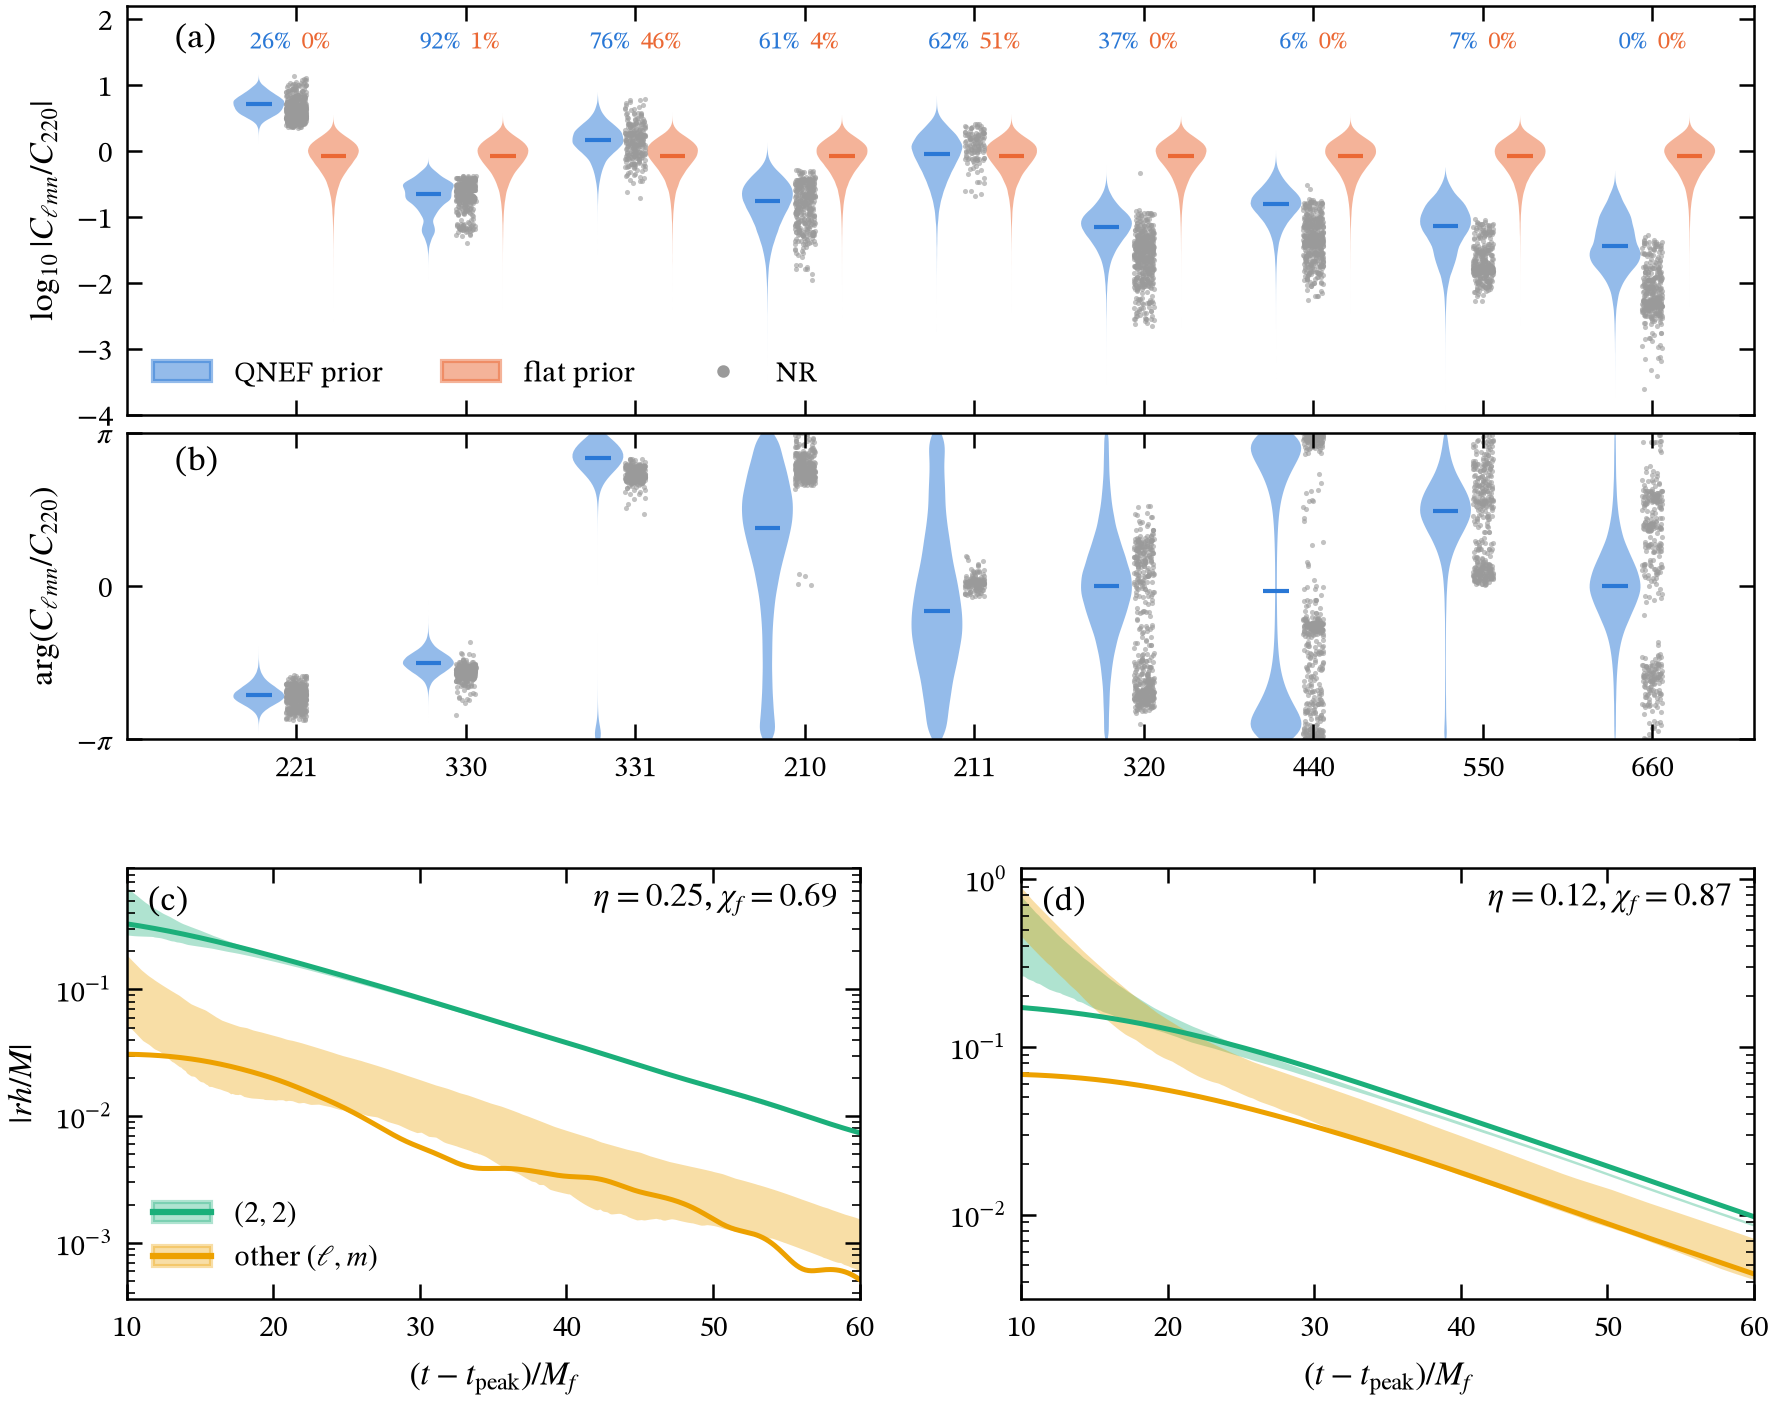
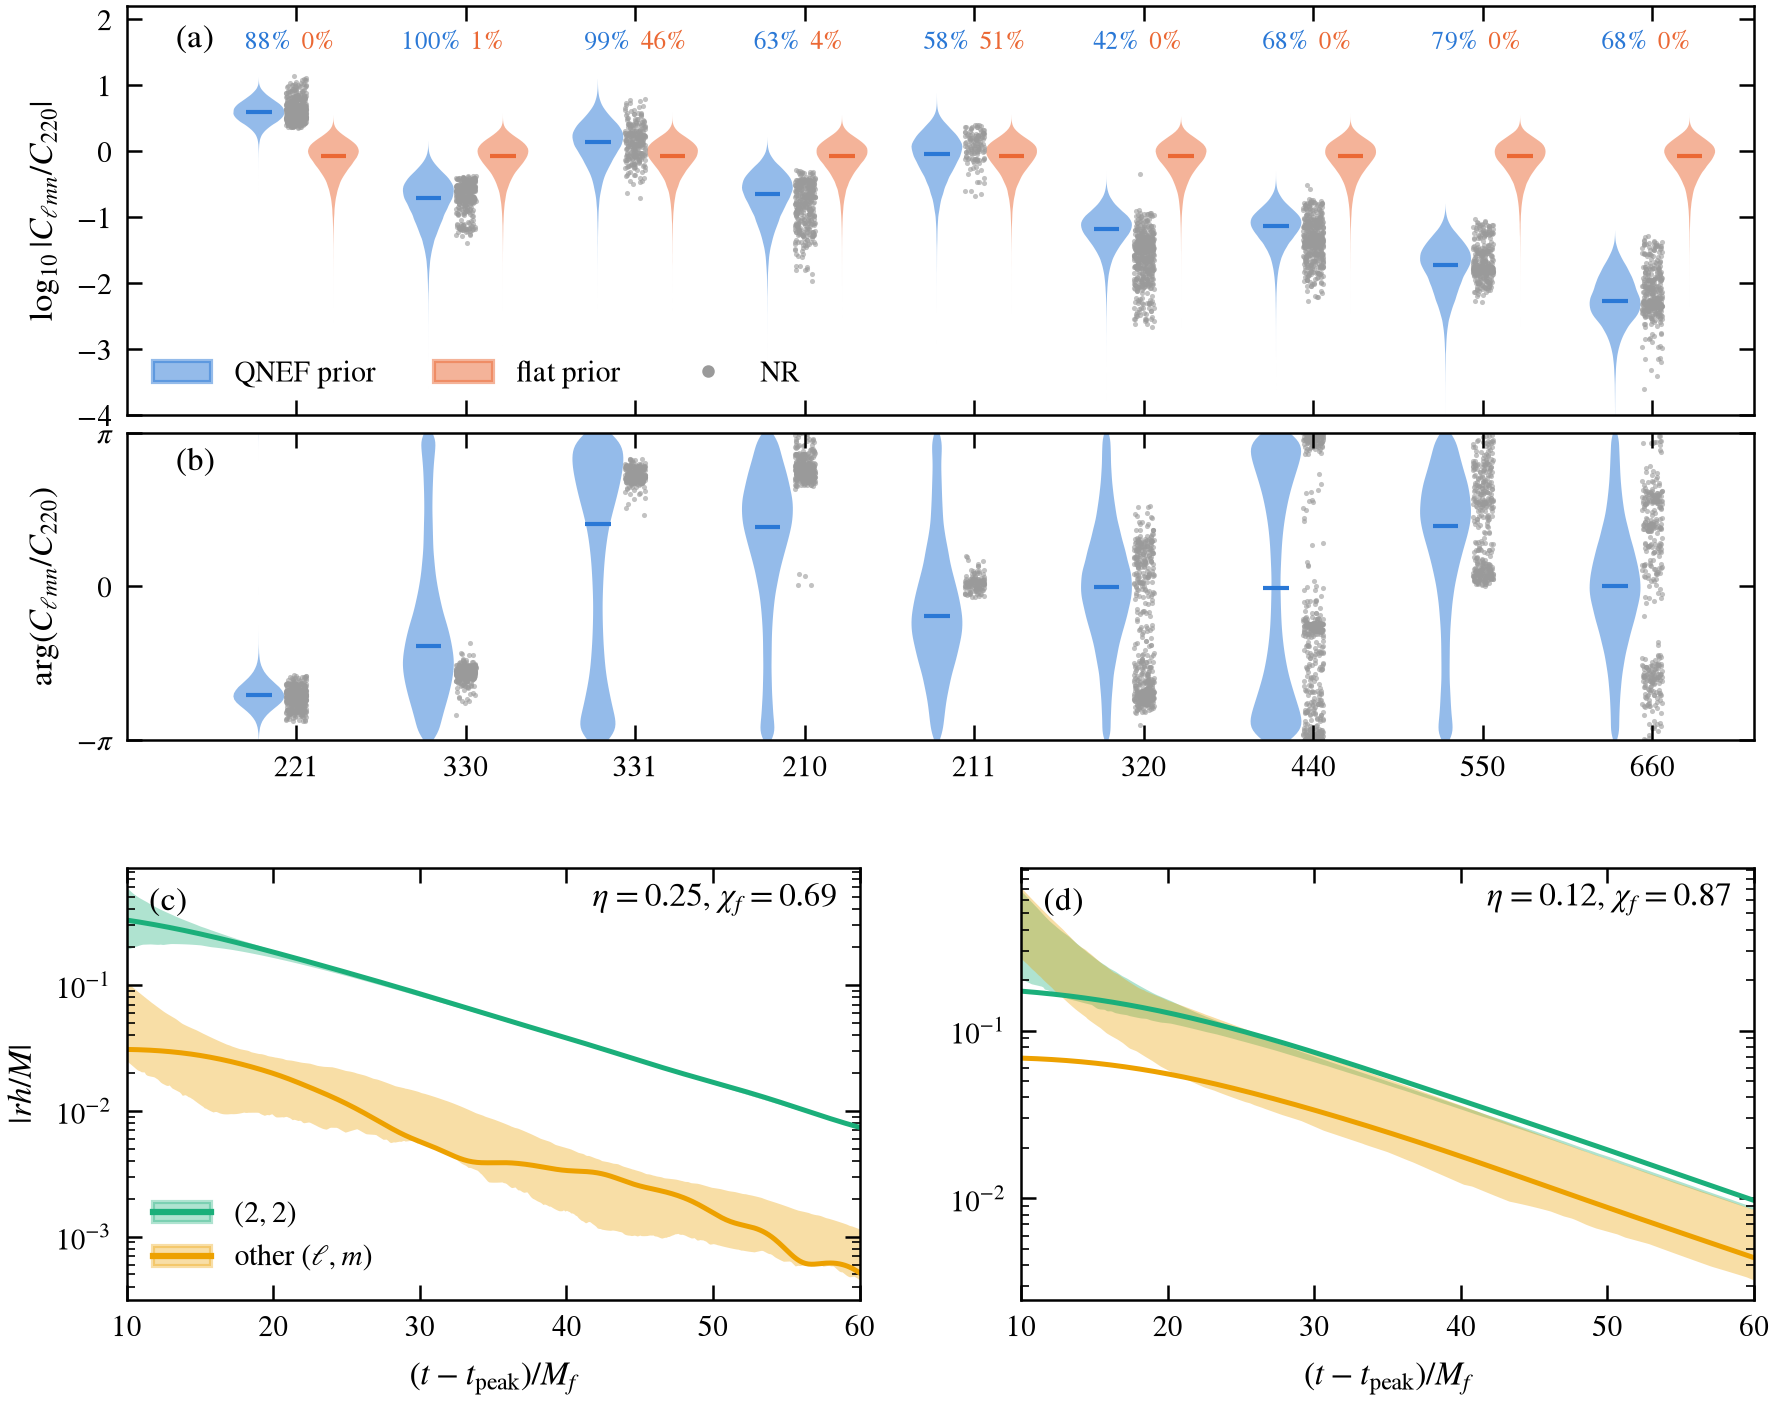
measuring-qnms: new amplitude prior in the code (v from peak frequency, 4 numbers); F1-F4, F6 remade; derivations §8, §10 updated

diff --git a/projects/measuring-qnms/results.md b/projects/measuring-qnms/results.md
@@ -6,12 +6,14 @@ $n_{\rm meas}$ for all 280 modes ($\ell \le 8$, $n \le 7$) from $t_0 = 10\,M_f$,
 
 | choice | O4 | CE 40 km | ET | LISA |
 |---|---|---|---|---|
-| as published (F3) | 5 (19) | 11 (36) | 14 (56) | 25 (74) |
+| as published (F3), earlier prior | 5 (19) | 11 (36) | 14 (56) | 25 (74) |
 | time step $0.05$ / $0.2\,M$ instead of $0.1\,M$ | 5 / 5 | 11 / 11 | 14 / 14 | 25 / 25 |
 | PSD continued as a power law above its table | 5 (19) | 11 (36) | 14 (56) | — |
 | 16× finer frequency grid for the ACF | 5 (19) | 11 (36) | 14 (56) | 25 (74) |
 | $10^6\times$ more noise below $f_{\rm low}$ | 5 (18) | 11 (36) | 14 (56) | 25 (74) |
 | band-limited at 4096 Hz | 5 (19) | 11 (36) | **12** (56) | — |
+
+With the current amplitude prior (2026-09-27) the reference counts are 5 (19), 9 (36), 12 (56) and 22 (74); the rows above used the earlier prior and will be rerun with it.
 
 **Takeaway.**
 
@@ -33,9 +35,9 @@ $n_{\rm meas}$ for all 280 modes ($\ell \le 8$, $n \le 7$) from $t_0 = 10\,M_f$,
 
 **Takeaway.**
 
-- **Without the GP, starting earlier keeps adding channels:** O4 goes from 6 to 12 and ET from 14 to 25 between $t_0 = 10$ and 0. The free overtones absorb the non-modal content near the merger and are counted as modes.
-- **With the GP, the count is flat for any start before about 10–15 M:** O4 4, CE 40 km 8, ET 10. Early data are down-weighted by the non-modal noise, so the answer no longer depends on the arbitrary choice of $t_0$, and we could start at the merger.
-- The late GP term (14% of each harmonic, decaying with it) changes the counts by at most 1. The effect comes from the early term plus restricting the signal to trusted modes.
+- **Without the GP, starting earlier keeps adding channels:** O4 goes from 5 to 10 and ET from 12 to 22 between $t_0 = 10$ and 0. The free overtones absorb the non-modal content near the merger and are counted as modes.
+- **With the GP, the count is flat for any start before about 10 M:** O4 4, CE 40 km 6, ET 8. Early data are down-weighted by the non-modal noise, so the answer no longer depends on the arbitrary choice of $t_0$, and we could start at the merger.
+- The late GP term (12% of each harmonic, decaying with it) changed the counts by at most 1 with the earlier calibration (14%); not rechecked. The effect comes from the early term plus restricting the signal to trusted modes.
 
 **Reproduce.** `python -m mqnm.experiments.start_time`.
 
@@ -62,8 +64,8 @@ $n_{\rm meas}$ for all 280 modes ($\ell \le 8$, $n \le 7$) from $t_0 = 10\,M_f$,
 
 **Takeaway.**
 
-- **Overtones saturate at $n_{\max} = 2$** for every SNR shown, under both priors. From $10\,M$ the higher overtones have decayed below reach.
-- **Harmonics saturate with the PN + QNEF prior** by $\ell_{\max} = 4$ at $\rho_{220} = 30$ and by 6 at 300. At 3000 the count still gains from $\ell = 8$; that gain is optimistic, because PN overpredicts the weak high-$\ell$ amplitudes (F1).
+- **Overtones saturate early.** With the PN + QNEF prior the count stops at $n_{\max} = 1$ for $\rho_{220} = 30$ and at 2 for 3000; at 300 one more channel appears at $n_{\max} = 4$. With the flat prior the count is flat from $n_{\max} = 1$. From $10\,M$ the higher overtones have decayed below reach.
+- **Harmonics saturate with the PN + QNEF prior:** from $\ell_{\max} = 2$ at $\rho_{220} = 30$ (4 channels) and by 6 at 3000 (16). At 300 the count reaches 8 at $\ell_{\max} = 4$ and gains one more at 8.
 - **With a flat prior the count grows linearly in $\ell_{\max}$ and never saturates.** Saturation comes from the physical amplitude hierarchy, not from the noise.
 
 **Reproduce.** `python -m mqnm.experiments.saturation`.
@@ -77,13 +79,13 @@ $n_{\rm meas}$ for all 280 modes ($\ell \le 8$, $n \le 7$) from $t_0 = 10\,M_f$,
 
 **Takeaway.**
 
-- **GW250114 at its distance, PN + QNEF prior:** O4 5, A+ 6, CE 20 km 10, CE 40 km 11, ET 14. That is, the 220 plus about 3 (O4) to 12 (ET) further real channels.
-- **Growth with SNR is roughly logarithmic:** about 3 channels at $\rho_{220} = 10$ and 25–32 at $10^4$. Above $\rho_{220} \approx 500$, networks that see both polarizations (ET, LISA) pull ahead.
-- **Third-generation detectors keep 5–6 channels out to $z \sim 1$–5**, because the redshifted mass moves the ringdown into their low-frequency band. O4 and A+ drop to the 220 alone.
-- **LISA ($10^6\,M_\odot$) keeps about 25 channels from $z \approx 1$ to 5.**
-- **At equal total SNR, the flat prior gives 3–4× more channels.** The PN + QNEF structure concentrates the signal into a few correlated directions, so the measurability count depends strongly on what we know about the amplitudes.
+- **GW250114 at its distance, PN + QNEF prior:** O4 5, A+ 6, CE 20 km 8, CE 40 km 9, ET 12. That is, the 220 plus 3 (O4) to 10 (ET) further real channels. With the earlier prior these were 5, 6, 10, 11, 14.
+- **Growth with SNR is roughly logarithmic:** 2 channels at $\rho_{220} = 10$, 6 at 100, 12–16 at 1000 and 22–28 at $10^4$. Above $\rho_{220} \approx 500$, networks that see both polarizations (ET, LISA) pull ahead.
+- **Third-generation detectors keep 4–6 channels out to $z \sim 5$**, because the redshifted mass moves the ringdown into their low-frequency band. O4 and A+ drop to the 220 alone (2) by $z \approx 1$.
+- **LISA ($10^6\,M_\odot$) keeps about 20–22 channels from $z \approx 1$ to 10**, and 14 at $z = 20$.
+- **At equal total SNR, the flat prior gives 3–5× more channels** (O4 19, CE 40 km 36, ET 56, LISA 74 at the source). The PN + QNEF structure concentrates the signal into a few correlated directions, so the measurability count depends strongly on what we know about the amplitudes.
 
-**Caveats.** An overhead source with co-located detectors is an idealisation. The PN + QNEF prior is optimistic for the weak high-$\ell$ modes (F1). The count is of *channels* (combinations of amplitudes), not of named modes.
+**Caveats.** An overhead source with co-located detectors is an idealisation. The PN + QNEF prior under-covers (3,2) and (4,3) and over-covers (3,3) (F1). The count is of *channels* (combinations of amplitudes), not of named modes.
 
 **Reproduce.** `python -m mqnm.experiments.measurability`.
 
@@ -108,13 +110,17 @@ $n_{\rm meas}$ for all 280 modes ($\ell \le 8$, $n \le 7$) from $t_0 = 10\,M_f$,
 
 <figure>
 <a href="figs/prior_vs_nr.png"><img src="figs/prior_vs_nr.png" alt="(a, b) prior-predictive amplitude ratios per mode versus NR, modulus and phase; (c, d) NR strain versus prior bands with every mode for two SXS runs, from 10 M"></a>
-<figcaption>(a, b) For each SXS run, both priors are conditioned on that run's own 220 and predict $C_j/C_{220}$ at the merger. Violins pool the predictions and grey dots are NR (jaxqualin). The numbers give the fraction of runs inside their own central 68% (1σ) interval (blue: QNEF, orange: flat); a calibrated prior gives about 68%. (c, d) NR strain for SXS:BBH:0180 and SXS:BBH:1437 from $10\,M_f$ against 5–95% bands from draws of every mode ($\ell \le 8$, $n \le 7$). Green: $|h_{22}|$; yellow: rms of all other $m > 0$ harmonics.</figcaption>
+<figcaption>(a, b) For each SXS run, both priors are conditioned on that run's own 220 and predict $C_j/C_{220}$ at the merger. The PN × QNEF prior is 1PN at the run's own $v_{\rm peak}$ with four calibrated numbers ([derivations §8](#derivations)). Violins pool the predictions and grey dots are NR (jaxqualin). The numbers give the fraction of runs inside their own central 68% (1σ) interval (blue: QNEF, orange: flat); a calibrated prior gives about 68%. (c, d) NR strain for SXS:BBH:0180 and SXS:BBH:1437 from $10\,M_f$ against 5–95% bands from draws of every mode ($\ell \le 8$, $n \le 7$). Green: $|h_{22}|$; yellow: rms of all other $m > 0$ harmonics.</figcaption>
 </figure>
 
 **Takeaway.**
 
-- **Per mode, 1σ coverage (target 68%):** 330 92%, 331 76%, 210 61%, 211 62%, but the **221 only 26%**. NR's 221 sits consistently at about 0.8× the QNEF prediction with little scatter, and the rms error ($f = 0.22$) reaches that bias only at its 1σ edge. The 320, 440, 550 and 660 are at 0–37%: PN overpredicts them, which is the optimistic direction for weak modes. The flat prior is at 0–51%.
-- **Total strain, coverage across 30 SXS runs:**
+- **Per mode, 1σ coverage (target 68%), all runs:** 221 88%, 330 100%, 331 99%, 210 63%, 211 58%, 320 42%, 440 68%, 550 79%, 660 68%. The flat prior is at 0–51%.
+- **The 221 is now covered** (88%; it was 26% with the earlier per-mode prior). The calibrated factor $\kappa = 0.77$ carries NR's known offset of about 0.8 from the QNEF ratio ([derivations §8.3](#derivations)).
+- **One pooled error $e$ is too wide for (3,3) and too narrow for (3,2).** (3,3) and (3,3,1) are over-covered, because NR's (3,3) sits at 1.9× the 1PN prediction at $v_{\rm peak}$ and $e$ has to reach it ([§8.4](#derivations)). The (3,2) is under-covered, and its phase is poorly predicted (panel b).
+- **The phases** of the 221 and 211 are predicted tightly and match NR; the 330's phase prior is broad but centred on NR. For the 331 and 210, NR's phases sit about 1.5 rad from the prior's median.
+- **Total strain (c, d):** the NR strain lies inside, or at the edge of, the prior bands from $10\,M$ for both runs.
+- The coverage table below was computed with the earlier per-mode prior and has not been redone:
 
 | window after the peak | $h_{22}$ | other harmonics | prior / NR for $\lvert h_{22}\rvert$ |
 |---|---|---|---|

diff --git a/projects/measuring-qnms/derivations.md b/projects/measuring-qnms/derivations.md
@@ -148,7 +148,7 @@ $$
 - **Harmonic ratio $w_{\ell m}$** (complex): the PN ratio $h_{\ell m}/h_{22}$ at leading order, in the frame where the orbital phase at merger is zero, times the resummed 1PN amplitude factor
   $$ w_{\ell m} = w^{\rm N}_{\ell m}(\eta, v)\; e^{(k_{\ell m}(\eta) - k_{22}(\eta))\, v^2}, $$
   where $k_{\ell m}$ is the $v^2$ coefficient of $|h_{\ell m}|/|h^{\rm N}_{\ell m}|$ for non-spinning binaries (Blanchet, arXiv:1310.1528, eqs. 491–513). $w_{22} = 1$. Harmonics without a tabulated $k_{\ell m}$ stay at leading order.
-- **The velocity $v$** at which PN is evaluated. It is not fitted: $v = (M\Omega_{\rm peak})^{1/3}$ per binary, with $\Omega_{\rm peak}$ half the $h_{22}$ frequency at the peak of $|h_{22}|$. See 8.4.
+- **The velocity $v$** at which PN is evaluated. It is not fitted: $v = (M\Omega_{\rm peak})^{1/3}$ per binary, with $\Omega_{\rm peak}$ half the $h_{22}$ frequency at the peak of $|h_{22}|$, taken from the SEOBNRv4 NR fit in $\eta$ and the aligned spins. See 8.4.
 - **Overtone ratio $g_{\ell m n}$** (complex): $(B_{\ell m n}/B_{\ell m 0})\,(\omega_{\ell m 0}/\omega_{\ell m n})^2$. $B$ are the Teukolsky excitation factors, and $(\omega_0/\omega_n)^2$ converts $\psi_4 = \ddot h$ to strain. For the 221 it is multiplied by a factor $\kappa$ (8.3).
 - **The errors** are independent and relative:
   $$
@@ -203,6 +203,12 @@ A number stays in the model only if it raises the held-out score.
 
 $$ e = 1.91, \qquad f = 0.34, \qquad a = 1.34, \qquad \kappa = 0.77 . $$
 
+**In the code** (`mqnm`, from 2026-09-27) every run takes its own $v$ from the peak-frequency fit of 8.4, and the four numbers are refitted on the same 350 training runs:
+
+$$ e = 1.95, \qquad f = 0.34, \qquad a = 1.30, \qquad \kappa = 0.77 . $$
+
+They agree with the study values above to within 2%. Every figure (F1–F4, F6) uses these.
+
 - Three pooled numbers beat sixteen per-mode ones by 2.6 per run, on runs they were not fitted to.
 - $\kappa = 0.77$ is the known bias of the 221: NR sits at 0.8 of the QNEF ratio. Without it, the 221 is covered 67% of the time at 1σ; with it, 88%.
 - Fitting $v$ instead of taking it from the peak frequency changes nothing (0.546 against 0.562).
@@ -230,6 +236,10 @@ A per-run $v_{\rm peak}$ does not remove the dependence of the fundamental offse
 | 0.562 for every run | 4 | 0 |
 
 They tie, and the coverage agrees to within 0.02 for every mode except the 211, where the per-run version covers less (0.59 against 0.73, on 22 runs). The reason is that $v_{\rm peak}$ barely varies across the catalogue. We keep $v$ as a source parameter, since it costs no calibrated number and follows the binary where the catalogue is thin.
+
+**$\Omega_{\rm peak}$ for any binary.** An event gives $\eta$ and the spins, not a waveform peak. We use the NR fit of $M\omega_{22}$ at the peak of $|h_{22}|$ from the SEOBNRv4 calibration (Bohé et al., arXiv:1611.03703, App. A.3, eqs. A6–A9), with $\Omega_{\rm peak} = \omega_{22}/2$. Against 280 SXS runs, the fit's relative error in $\omega_{22}$ has rms 0.56% (median +0.20%, largest 4.6%). That is 0.19% in $v$. As a control, the same fit with the spins set to zero is off by 9.6% rms. For the GW250114-like source (equal mass, non-spinning), $v = 0.565$.
+
+**What the new $v$ shows for (3,3).** With the 1PN factor at $v_{\rm peak}$, NR's (3,3) sits at 1.94 times the prediction (median $|R_{330}/w_{33}|$). At leading order and $v = 0.7$ it sat at 1.03. The pooled $e \approx 1.9$ absorbs that offset, which is why (3,3) is over-covered (0.99) while (3,2) and (4,3) are under-covered. A per-harmonic $e$ would separate them.
 
 ### 8.5 Not yet in the prior
 
@@ -309,10 +319,10 @@ $$
 **Calibration.** Maximum likelihood on the (2,2) residuals of 30 SXS runs, 0–20 M. The residual is modelled as the prior-predictive covariance of the trusted modes, conditioned on the fitted 220 (with a 2% fit uncertainty), plus the GP:
 
 $$
-\lambda_e = 3.07, \quad \tau = 3.9\,M, \quad \lambda_l = 0.14, \quad \ell_c = 11\,M .
+\lambda_e = 2.21, \quad \tau = 4.0\,M, \quad \lambda_l = 0.12, \quad \ell_c = 10\,M .
 $$
 
-At the merger the non-modal content is about $3\,\sigma_{22}$, and it has decayed to about 8% by $10\,M$. Only (2,2) is used because the PN scale is too poor a normaliser to pool the weaker harmonics (the fit then runs to its bounds). The same kernel, scaled by each $\sigma_{\ell m}$, is applied to every harmonic. That is a stated limitation.
+These are refitted with the amplitude prior of §8 (2026-09-27); with the earlier prior they were $3.07$, $3.9\,M$, $0.14$, $11\,M$. At the merger the non-modal content is about $2.2\,\sigma_{22}$, and it has decayed by a factor $e^{-10/4.0} \approx 0.08$ by $10\,M$. Only (2,2) is used because the PN scale is too poor a normaliser to pool the weaker harmonics (the fit then runs to its bounds). The same kernel, scaled by each $\sigma_{\ell m}$, is applied to every harmonic. That is a stated limitation.
 
 ## 11. Overtones or unmodelled effects? (brainstorm, 2026-09-27)
 

diff --git a/projects/measuring-qnms/log.md b/projects/measuring-qnms/log.md
@@ -1,5 +1,12 @@
 Newest first. One entry per working session: what was done, what was learned, and what went wrong.
 
+### 2026-09-27 — new amplitude prior in the code; figures remade
+
+- **The four-number prior is now the code's prior.** Each binary takes its own $v = (M\Omega_{\rm peak})^{1/3}$ from the SEOBNRv4 NR fit of the peak frequency (Bohé et al., arXiv:1611.03703), which matches 280 SXS runs to 0.56% rms in frequency. Refitted in the code: $e = 1.95$, $f = 0.34$, $a = 1.30$, $\kappa = 0.77$. The non-modal GP was refitted with it ($\lambda_e = 2.21$, $\tau = 4.0\,M$). [Derivations §8, §10](#derivations).
+- **Figures F1–F4 and F6 remade.** The 221 is now covered 88% of the time at 1σ (26% before). The counts for GW250114 at its distance drop by two channels in 3G detectors (CE 40 km 11 → 9, ET 14 → 12, LISA 25 → 22); O4 and A+ are unchanged (5, 6). The flat-prior counts are unchanged, as they should be.
+- **Found:** with 1PN at $v_{\rm peak}$, NR's (3,3) sits at 1.9× the prediction (1.03 at leading order and $v = 0.7$). The pooled $e$ absorbs it, so (3,3) is over-covered and (3,2), (4,3) under-covered.
+- **Not yet redone:** the noise-covariance sweep (F7) and the 30-run strain coverage table in F1 still use the earlier prior.
+
 ### 2026-09-27 — amplitude prior settled on four numbers; overtones or unmodelled effects?
 
 - **Amplitude prior.** We use PN at 1PN (resummed), evaluated at each binary's own velocity $v = (M\Omega_{\rm peak})^{1/3}$, like $\eta$. The QNEF overtone ratios stay, and only four numbers are calibrated on NR: $e = 1.91$ (fundamentals), $f = 0.34$ (overtones), $a = 1.34$ (zero-mean overtones) and $\kappa = 0.77$ (the 221). On 150 held-out runs this beats the old 16-number tables by 2.6 in log density per run. The 221 is covered 88% of the time at 1σ, where it was 27% before. (3,3) is over-covered, and (3,2) and (4,3) are under-covered. $a$ is not constrained by the catalogue. Rewrote [derivations §8](#derivations).
